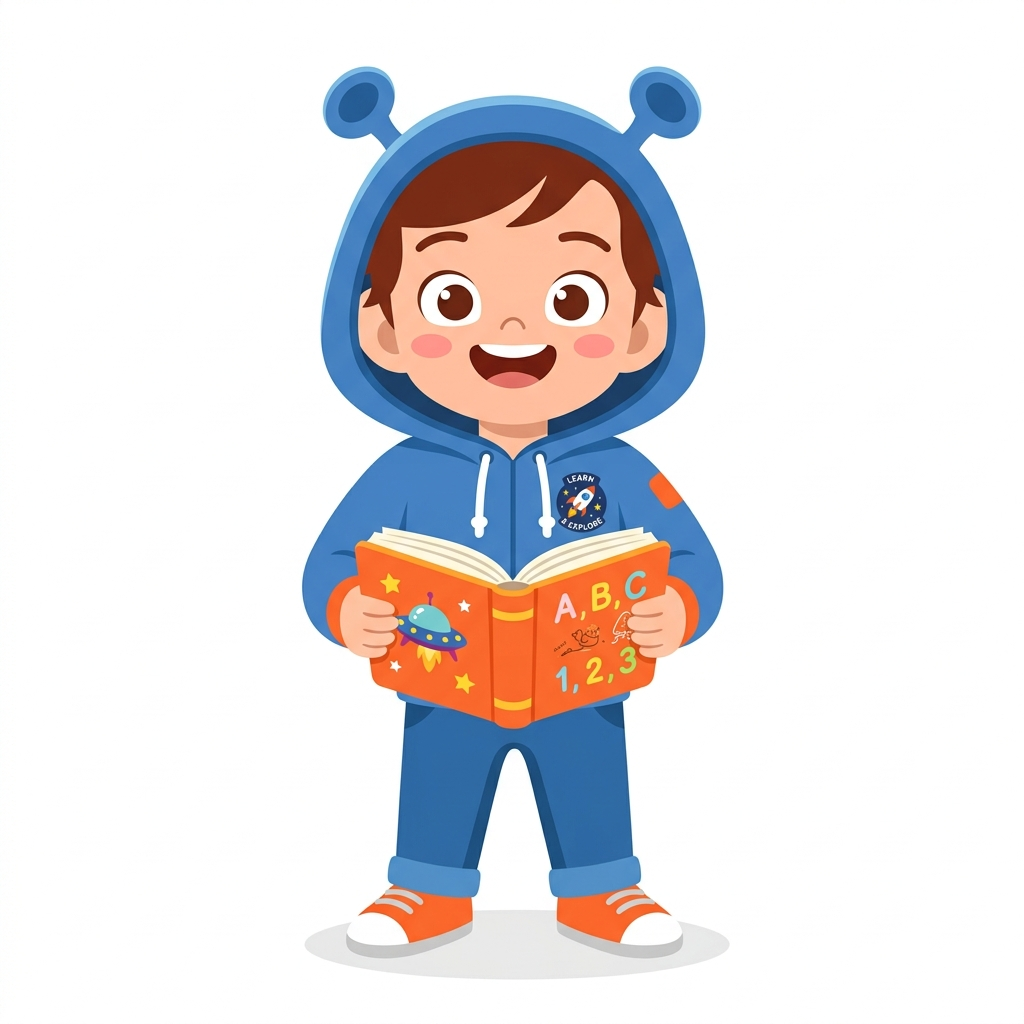
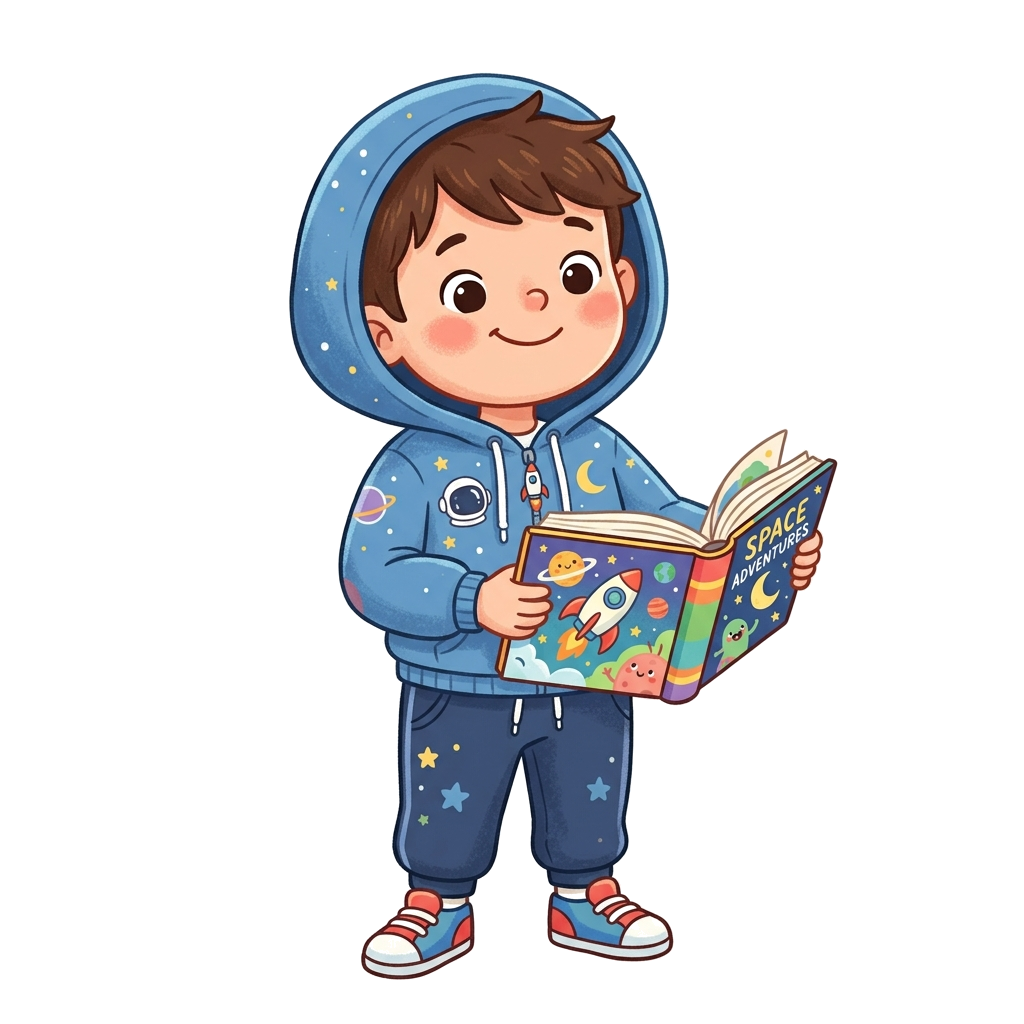
17 mei

Changed region(s): [[0.2812, 0.0625, 0.8125, 0.9688]]

diff --git a/app/static/css/beranda.css b/app/static/css/beranda.css
@@ -16,7 +16,6 @@
   object-fit: cover;
   border: 2.5px solid var(--blue-300);
   background-color: var(--blue-50);
-  mix-blend-mode: multiply;
 }
 .greeting-section h2 {
   font-size: 1.5rem;
@@ -47,7 +46,13 @@
 .welcome-banner-right img {
   width: 90px;
   object-fit: contain;
-  mix-blend-mode: multiply;
+  animation: floatMascotWelcome 4s ease-in-out infinite;
+  filter: drop-shadow(0 6px 12px rgba(59, 130, 246, 0.18));
+}
+
+@keyframes floatMascotWelcome {
+  0%, 100% { transform: translateY(0) rotate(0deg); }
+  50% { transform: translateY(-6px) rotate(1deg); }
 }
 .welcome-banner-right p {
   font-size: .78rem;
@@ -76,74 +81,133 @@
 
 .level-card {
   background: var(--white);
-  border-radius: var(--radius-lg);
-  border: 1.5px solid var(--gray-200);
+  border-radius: 24px;
+  border: 1.5px solid #F1F5F9;
   overflow: hidden;
-  box-shadow: var(--shadow-sm);
+  box-shadow: 0 10px 30px rgba(148, 163, 184, 0.05);
   cursor: pointer;
-  transition: var(--transition);
+  transition: transform 0.4s cubic-bezier(0.175, 0.885, 0.32, 1.275), border-color 0.3s ease, box-shadow 0.3s ease;
   text-decoration: none;
   display: block;
 }
 .level-card:hover {
-  transform: translateY(-5px);
-  box-shadow: var(--shadow-md);
-  border-color: var(--blue-200);
+  transform: translateY(-6px);
+  box-shadow: 0 16px 36px rgba(148, 163, 184, 0.12);
 }
-.level-card:hover .level-card-thumbnail svg {
-  transform: scale(1.08) rotate(-3deg);
+#level-1:hover {
+  border-color: #FED7AA;
+}
+#level-2:hover {
+  border-color: #BAE6FD;
+}
+#level-kelas:hover {
+  border-color: #C7D2FE;
 }
 
 .level-card-thumbnail {
   width: 100%;
-  aspect-ratio: 16/9;
-  background-image:
-    linear-gradient(45deg, var(--gray-200) 25%, transparent 25%),
-    linear-gradient(-45deg, var(--gray-200) 25%, transparent 25%),
-    linear-gradient(45deg, transparent 75%, var(--gray-200) 75%),
-    linear-gradient(-45deg, transparent 75%, var(--gray-200) 75%);
-  background-size: 20px 20px;
-  background-position: 0 0, 0 10px, 10px -10px, -10px 0px;
+  aspect-ratio: 16/10;
+  display: flex;
+  align-items: center;
+  justify-content: center;
+  overflow: hidden;
+  position: relative;
   background-color: var(--white);
+  border-bottom: 1.5px solid #F8FAFC;
+}
+
+#level-1 .level-card-thumbnail::before {
+  content: '';
+  position: absolute;
+  width: 140px;
+  height: 140px;
+  border-radius: 50%;
+  background: radial-gradient(circle, #FFFBEB 0%, rgba(255, 255, 255, 0) 70%);
+  top: 50%;
+  left: 50%;
+  transform: translate(-50%, -50%);
+  z-index: 1;
+}
+
+#level-2 .level-card-thumbnail::before {
+  content: '';
+  position: absolute;
+  width: 140px;
+  height: 140px;
+  border-radius: 50%;
+  background: radial-gradient(circle, #F0F9FF 0%, rgba(255, 255, 255, 0) 70%);
+  top: 50%;
+  left: 50%;
+  transform: translate(-50%, -50%);
+  z-index: 1;
+}
+
+.level-illustration {
+  width: 62%;
+  height: 82%;
+  object-fit: contain;
+  z-index: 2;
+  filter: drop-shadow(0 6px 14px rgba(148, 163, 184, 0.08));
+  transition: transform 0.4s cubic-bezier(0.175, 0.885, 0.32, 1.275);
+  animation: floatIllustration 5s ease-in-out infinite;
+}
+
+#level-2 .level-illustration {
+  animation-delay: 1.5s;
+}
+
+@keyframes floatIllustration {
+  0%, 100% { transform: translateY(0); }
+  50% { transform: translateY(-4px); }
+}
+
+.level-card:hover .level-illustration {
+  transform: scale(1.1) rotate(-3deg) translateY(-2px);
 }
 
 .level-card-footer {
-  padding: 14px 18px;
+  padding: 16px 20px;
   display: flex;
   align-items: center;
   justify-content: space-between;
   gap: 12px;
+  background-color: var(--white);
 }
 .level-card-title {
-  font-size: .95rem;
+  font-size: .98rem;
   font-weight: 800;
   color: var(--gray-900);
-  line-height: 1.3;
+  line-height: 1.35;
 }
 
 /* ── Circular Progress ── */
 .progress-circle {
   position: relative;
-  width: 52px;
-  height: 52px;
+  width: 56px;
+  height: 56px;
   flex-shrink: 0;
+  display: flex;
+  align-items: center;
+  justify-content: center;
 }
 .progress-circle svg {
   transform: rotate(-90deg);
+  width: 56px;
+  height: 56px;
 }
 .progress-circle .progress-bg {
   fill: none;
-  stroke: var(--gray-200);
-  stroke-width: 5;
+  stroke: #F1F5F9;
+  stroke-width: 5.5;
 }
 .progress-circle .progress-bar {
   fill: none;
-  stroke: #22C55E;
-  stroke-width: 5;
+  stroke: #10B981;
+  stroke-width: 5.5;
   stroke-linecap: round;
   stroke-dasharray: 126;
-  stroke-dashoffset: 31.5; /* 75% = 126 * 0.25 */
-  transition: stroke-dashoffset .6s ease;
+  stroke-dashoffset: 31.5;
+  transition: stroke-dashoffset .8s cubic-bezier(0.4, 0, 0.2, 1);
 }
 .progress-circle .progress-text {
   position: absolute;
@@ -151,9 +215,9 @@
   display: flex;
   align-items: center;
   justify-content: center;
-  font-size: .78rem;
+  font-size: .82rem;
   font-weight: 800;
-  color: #22C55E;
+  color: #10B981;
 }
 
 /* ── Quiz CTA ── */
@@ -169,9 +233,15 @@
 }
 .quiz-cta-mascot {
   width: 100px;
+  height: 100px;
   flex-shrink: 0;
   object-fit: contain;
-  mix-blend-mode: multiply;
+  background: radial-gradient(circle, #DBEAFE 0%, #EFF6FF 80%);
+  border-radius: 50%;
+  padding: 8px;
+  animation: floatMascotWelcome 4.2s ease-in-out infinite 0.5s;
+  box-shadow: 0 8px 20px rgba(59, 130, 246, 0.12);
+  border: 3px solid var(--white);
 }
 .quiz-cta-content h3 {
   font-size: 1.2rem;

diff --git a/app/templates/beranda.html b/app/templates/beranda.html
@@ -5,7 +5,7 @@
 {% block description %}Halaman beranda GESTRA. Pilih latihan menulis dan uji kemampuanmu!{% endblock %}
 
 {% block extra_css %}
-<link rel="stylesheet" href="{{ url_for('static', path='css/beranda.css') }}" />
+<link rel="stylesheet" href="{{ url_for('static', path='css/beranda.css') }}?v=3" />
 {% endblock %}
 
 {% block content %}
@@ -14,7 +14,7 @@
 
   <!-- Greeting -->
   <div class="greeting-section">
-    <img src="{{ url_for('static', path='assets/images/mascot.png') }}" alt="Avatar" class="greeting-avatar" />
+    <img src="{{ url_for('static', path='assets/images/mascot.png') }}?v=2" alt="Avatar" class="greeting-avatar" />
     <h2>Halo, {{ user.nama }}!</h2>
   </div>
 
@@ -32,7 +32,7 @@
       <p>Website ini dibuat agar semua<br>bagiannya bisa bersuara</p>
     </div>
     <div class="welcome-banner-right">
-      <img src="{{ url_for('static', path='assets/images/mascot.png') }}" alt="Maskot GESTRA" />
+      <img src="{{ url_for('static', path='assets/images/mascot.png') }}?v=2" alt="Maskot GESTRA" />
       <p>"Aku bisa membacakan semua tulisan untukmu!"</p>
     </div>
   </div>
@@ -43,7 +43,10 @@
 
     <!-- Level 1 -->
     <a href="/latihan" class="level-card" id="level-1">
-      <div class="level-card-thumbnail"></div>
+      <div class="level-card-thumbnail">
+        <img src="{{ url_for('static', path='assets/images/menulis-huruf-clean.png') }}" alt="Menulis Huruf"
+          class="level-illustration" />
+      </div>
       <div class="level-card-footer">
         <div class="level-card-title">Level 1 :<br>Menulis Huruf</div>
         <div class="progress-circle" aria-label="Progress 75%">
@@ -58,7 +61,10 @@
 
     <!-- Level 2 -->
     <a href="/latihan-kata" class="level-card" id="level-2">
-      <div class="level-card-thumbnail"></div>
+      <div class="level-card-thumbnail">
+        <img src="{{ url_for('static', path='assets/images/menulis-kata-clean.png') }}" alt="Menulis Kata"
+          class="level-illustration" />
+      </div>
       <div class="level-card-footer">
         <div class="level-card-title">Level 2 :<br>Menulis Kata</div>
         <div class="progress-circle" aria-label="Progress 75%">
@@ -106,7 +112,8 @@
 
   <!-- Quiz CTA -->
   <div class="quiz-cta">
-    <img src="{{ url_for('static', path='assets/images/mascot.png') }}" alt="Maskot GESTRA" class="quiz-cta-mascot" />
+    <img src="{{ url_for('static', path='assets/images/mascot.png') }}?v=2" alt="Maskot GESTRA"
+      class="quiz-cta-mascot" />
     <div class="quiz-cta-content">
       <h3>Ayo Tes Kemampuanmu!</h3>
       <p>Uji seberapa jauh kamu telah berkembang dengan mengikuti kuis seru yang sudah disiapkan. Tunjukkan kemampuan

diff --git a/app/static/css/materi.css b/app/static/css/materi.css
@@ -32,15 +32,11 @@
 .materi-thumbnail {
   width: 100%;
   aspect-ratio: 4/3;
-  background-image:
-    linear-gradient(45deg, #e8e8e8 25%, transparent 25%),
-    linear-gradient(-45deg, #e8e8e8 25%, transparent 25%),
-    linear-gradient(45deg, transparent 75%, #e8e8e8 75%),
-    linear-gradient(-45deg, transparent 75%, #e8e8e8 75%);
-  background-size: 16px 16px;
-  background-position: 0 0, 0 8px, 8px -8px, -8px 0px;
-  background-color: #f8f8f8;
+  background-size: cover;
+  background-repeat: no-repeat;
+  background-position: center;
   position: relative;
+  transition: transform 0.3s ease;
 }
 
 .materi-card-footer {

diff --git a/app/static/css/login.css b/app/static/css/login.css
@@ -60,9 +60,13 @@
 
 .login-mascot {
   width: 220px;
-  filter: drop-shadow(0 8px 24px rgba(37,99,235,.20));
+  height: 220px;
+  object-fit: contain;
+  background: radial-gradient(circle, rgba(191, 219, 254, 0.5) 0%, rgba(239, 246, 255, 0) 70%);
+  border-radius: 50%;
+  padding: 16px;
+  filter: drop-shadow(0 8px 24px rgba(37,99,235,.15));
   animation: floatMascot 3.5s ease-in-out infinite;
-  mix-blend-mode: multiply;
 }
 
 .login-quote {

diff --git a/app/static/css/kuis.css b/app/static/css/kuis.css
@@ -26,11 +26,14 @@
 
 .kuis-mascot {
   width: 180px;
+  height: 180px;
   flex-shrink: 0;
   object-fit: contain;
-  filter: drop-shadow(0 6px 18px rgba(37,99,235,.18));
+  background: radial-gradient(circle, rgba(191, 219, 254, 0.5) 0%, rgba(239, 246, 255, 0) 70%);
+  border-radius: 50%;
+  padding: 12px;
+  filter: drop-shadow(0 6px 18px rgba(37,99,235,.15));
   animation: floatMascot 3.5s ease-in-out infinite;
-  mix-blend-mode: multiply;
 }
 
 .kuis-content {

diff --git a/app/templates/daftar.html b/app/templates/daftar.html
@@ -16,7 +16,7 @@
     <!-- ── Left Panel ── -->
     <div class="login-left">
       <img
-        src="{{ url_for('static', path='assets/images/mascot.png') }}"
+        src="{{ url_for('static', path='assets/images/mascot.png') }}?v=2"
         alt="Maskot GESTRA"
         class="login-mascot"
         id="login-mascot"

diff --git a/app/templates/edit-profil.html b/app/templates/edit-profil.html
@@ -195,7 +195,7 @@
             <!-- Beautiful Avatar Upload Trigger -->
             <div class="avatar-upload-container">
                 <div class="avatar-wrapper">
-                    <img src="{{ user.foto_profil or url_for('static', path='assets/images/mascot.png') }}" 
+                    <img src="{% if user.foto_profil %}{{ user.foto_profil }}{% else %}{{ url_for('static', path='assets/images/mascot.png') }}?v=2{% endif %}" 
                          id="avatar-preview" 
                          alt="Avatar" 
                          class="avatar-image" />

diff --git a/app/templates/kuis.html b/app/templates/kuis.html
@@ -52,7 +52,7 @@
     <div class="kuis-card">
 
       <!-- Mascot -->
-      <img src="{{ url_for('static', path='assets/images/mascot.png') }}" alt="Maskot GESTRA" class="kuis-mascot" />
+      <img src="{{ url_for('static', path='assets/images/mascot.png') }}?v=2" alt="Maskot GESTRA" class="kuis-mascot" />
 
       <!-- Content -->
       <div class="kuis-content">

diff --git a/app/templates/login.html b/app/templates/login.html
@@ -15,7 +15,7 @@
     <!-- ── Left Panel ── -->
     <div class="login-left">
       <img
-        src="{{ url_for('static', path='assets/images/mascot.png') }}"
+        src="{{ url_for('static', path='assets/images/mascot.png') }}?v=2"
         alt="Maskot GESTRA"
         class="login-mascot"
         id="login-mascot"

diff --git a/app/templates/materi.html b/app/templates/materi.html
@@ -21,7 +21,7 @@
         Pilih salah satu materi di bawah ini untuk memulai latihan yang menyenangkan!
       </p>
     </div>
-    <img src="{{ url_for('static', path='assets/images/mascot.png') }}" alt="Maskot GESTRA"
+    <img src="{{ url_for('static', path='assets/images/mascot.png') }}?v=2" alt="Maskot GESTRA"
       class="info-header-mascot" />
   </div>
 

diff --git a/app/templates/profil.html b/app/templates/profil.html
@@ -332,7 +332,7 @@
   <!-- Profile Header -->
   <div class="profile-header">
     <div class="profile-avatar-wrapper" onclick="window.location.href='/edit-profile'" style="cursor: pointer;">
-      <img src="{{ user.foto_profil or url_for('static', path='assets/images/mascot.png') }}" alt="Foto Profil" class="profile-avatar" />
+      <img src="{% if user.foto_profil %}{{ user.foto_profil }}{% else %}{{ url_for('static', path='assets/images/mascot.png') }}?v=2{% endif %}" alt="Foto Profil" class="profile-avatar" />
       <!-- <span class="link-ganti-foto">Ganti foto profil</span> -->
     </div>
     <div class="profile-info">